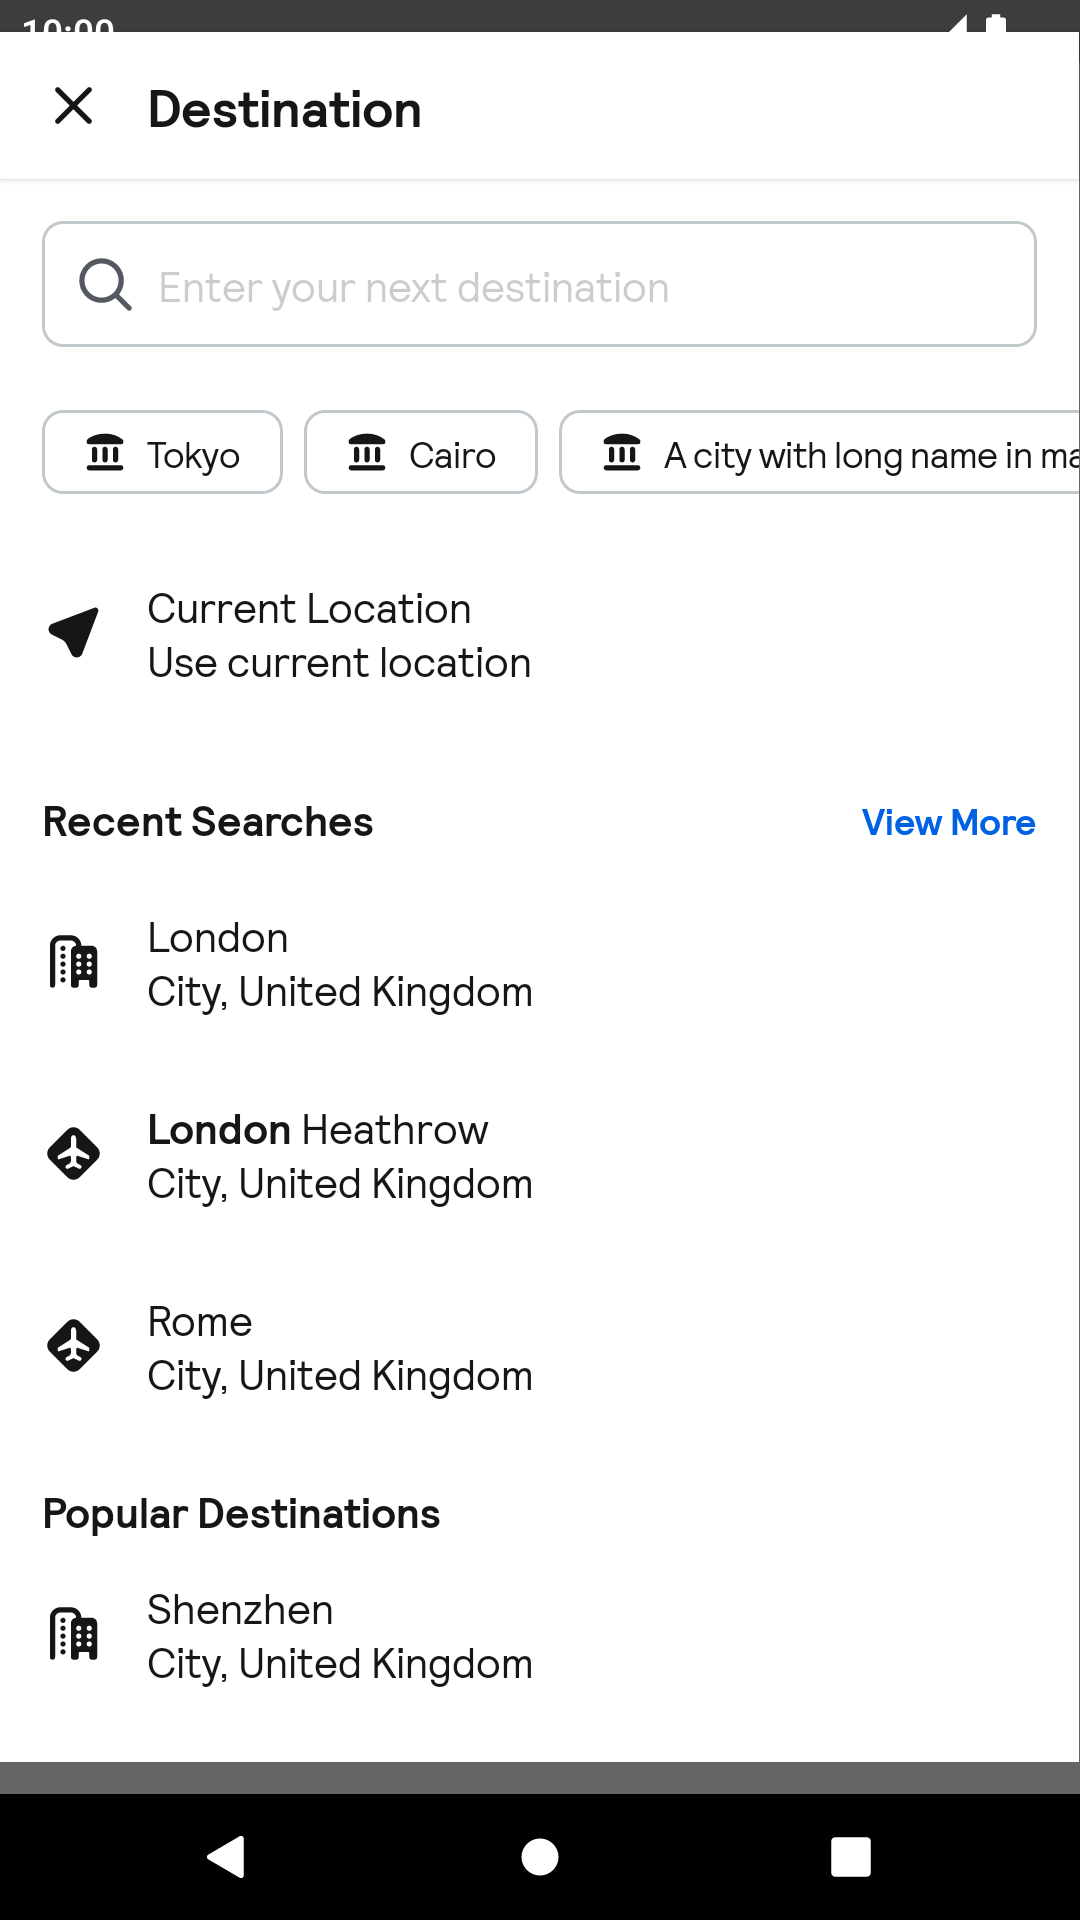
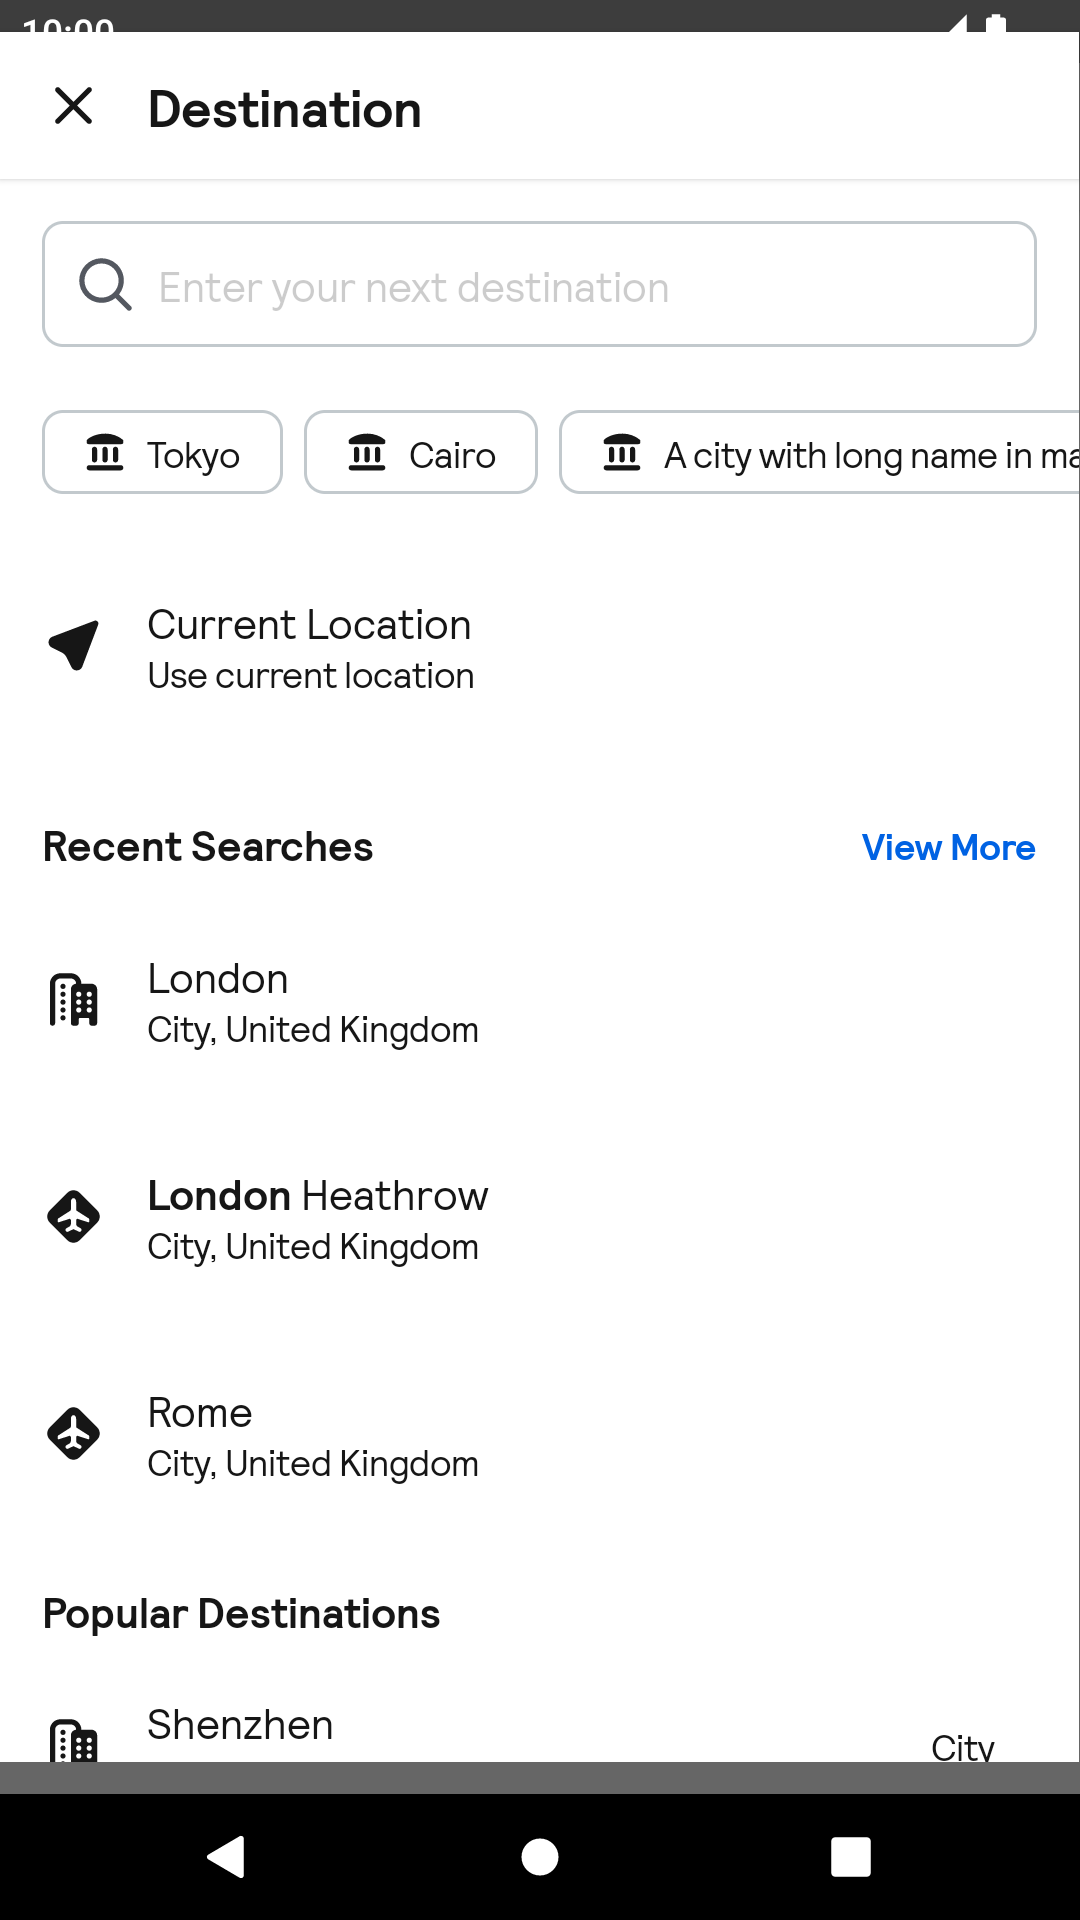
add type for bpk session in app search modal

diff --git a/app/src/main/java/net/skyscanner/backpack/demo/compose/AppSearchModalStory.kt b/app/src/main/java/net/skyscanner/backpack/demo/compose/AppSearchModalStory.kt
@@ -130,7 +130,9 @@ internal fun contentResult() = BpkAppSearchModalResult.Content(
                     },
                     subtitle = buildAnnotatedString { append(stringResource(id = R.string.current_location_subtitle)) },
                     icon = BpkIcon.UseLocation,
-                ) {},
+                    onItemSelected = {},
+                    type = "",
+                ),
             ),
         ),
         BpkSection(
@@ -144,7 +146,7 @@ internal fun contentResult() = BpkAppSearchModalResult.Content(
                     subtitle = buildAnnotatedString { append(stringResource(id = R.string.search_modal_item_subtitle)) },
                     icon = BpkIcon.City,
                     onItemSelected = {},
-
+                    type = "",
                 ),
                 BpkItem(
                     title = buildAnnotatedString {
@@ -156,14 +158,14 @@ internal fun contentResult() = BpkAppSearchModalResult.Content(
                     subtitle = buildAnnotatedString { append(stringResource(id = R.string.search_modal_item_subtitle)) },
                     icon = BpkIcon.Airports,
                     onItemSelected = {},
-
+                    type = "",
                 ),
                 BpkItem(
                     title = buildAnnotatedString { append(stringResource(id = R.string.city_rome)) },
                     subtitle = buildAnnotatedString { append(stringResource(id = R.string.search_modal_item_subtitle)) },
                     icon = BpkIcon.Airports,
                     onItemSelected = {},
-
+                    type = "",
                 ),
             ),
         ),
@@ -177,28 +179,28 @@ internal fun contentResult() = BpkAppSearchModalResult.Content(
                     subtitle = buildAnnotatedString { append(stringResource(id = R.string.search_modal_item_subtitle)) },
                     icon = BpkIcon.City,
                     onItemSelected = {},
-
+                    type = "City",
                 ),
                 BpkItem(
                     title = buildAnnotatedString { append(stringResource(id = R.string.city_paris)) },
                     subtitle = buildAnnotatedString { append(stringResource(id = R.string.search_modal_item_subtitle)) },
                     icon = BpkIcon.City,
                     onItemSelected = {},
-
+                    type = "City",
                 ),
                 BpkItem(
                     title = buildAnnotatedString { append(stringResource(id = R.string.city_algiers)) },
                     subtitle = buildAnnotatedString { append(stringResource(id = R.string.search_modal_item_subtitle)) },
                     icon = BpkIcon.City,
                     onItemSelected = {},
-
+                    type = "City",
                 ),
                 BpkItem(
                     title = buildAnnotatedString { append(stringResource(id = R.string.city_madrid)) },
                     subtitle = buildAnnotatedString { append(stringResource(id = R.string.search_modal_item_subtitle)) },
                     icon = BpkIcon.City,
                     onItemSelected = {},
-
+                    type = "City",
                 ),
             ),
         ),

diff --git a/backpack-compose/src/main/kotlin/net/skyscanner/backpack/compose/appsearchmodal/internal/BpkSection.kt b/backpack-compose/src/main/kotlin/net/skyscanner/backpack/compose/appsearchmodal/internal/BpkSection.kt
@@ -19,9 +19,11 @@
 package net.skyscanner.backpack.compose.appsearchmodal.internal
 
 import androidx.compose.foundation.layout.Arrangement
+import androidx.compose.foundation.layout.Box
 import androidx.compose.foundation.layout.Column
 import androidx.compose.foundation.layout.Row
 import androidx.compose.foundation.layout.fillMaxWidth
+import androidx.compose.foundation.layout.padding
 import androidx.compose.runtime.Composable
 import androidx.compose.ui.Alignment
 import androidx.compose.ui.Modifier
@@ -70,17 +72,32 @@ internal fun BpkSectionItem(item: BpkItem, modifier: Modifier = Modifier) {
             .fillMaxWidth()
             .clickable(onClick = item.onItemSelected),
         verticalAlignment = Alignment.CenterVertically,
-        horizontalArrangement = Arrangement.spacedBy(BpkSpacing.Base),
+        horizontalArrangement = Arrangement.SpaceBetween,
     ) {
-        BpkIcon(
-            icon = item.icon,
-            contentDescription = null,
-            size = BpkIconSize.Large,
-
-        )
-        Column {
-            BpkText(text = item.title)
-            BpkText(text = item.subtitle)
+        Row(
+            verticalAlignment = Alignment.CenterVertically,
+            horizontalArrangement = Arrangement.spacedBy(BpkSpacing.Base),
+        ) {
+            BpkIcon(
+                icon = item.icon,
+                contentDescription = null,
+                size = BpkIconSize.Large,
+            )
+            Column {
+                BpkText(text = item.title)
+                BpkText(
+                    style = BpkTheme.typography.footnote,
+                    text = item.subtitle,
+                )
+            }
+        }
+        Box(
+            modifier = Modifier.padding(BpkSpacing.Base),
+        ) {
+            BpkText(
+                style = BpkTheme.typography.footnote,
+                text = item.type,
+            )
         }
     }
 }

diff --git a/backpack-compose/src/main/kotlin/net/skyscanner/backpack/compose/appsearchmodal/BpkAppSearchModal.kt b/backpack-compose/src/main/kotlin/net/skyscanner/backpack/compose/appsearchmodal/BpkAppSearchModal.kt
@@ -58,6 +58,7 @@ data class BpkItem(
     val subtitle: AnnotatedString,
     val icon: BpkIcon,
     val onItemSelected: () -> Unit,
+    val type: String,
 )
 
 data class BpkSectionHeading(val title: String, val action: BpkAction? = null)
